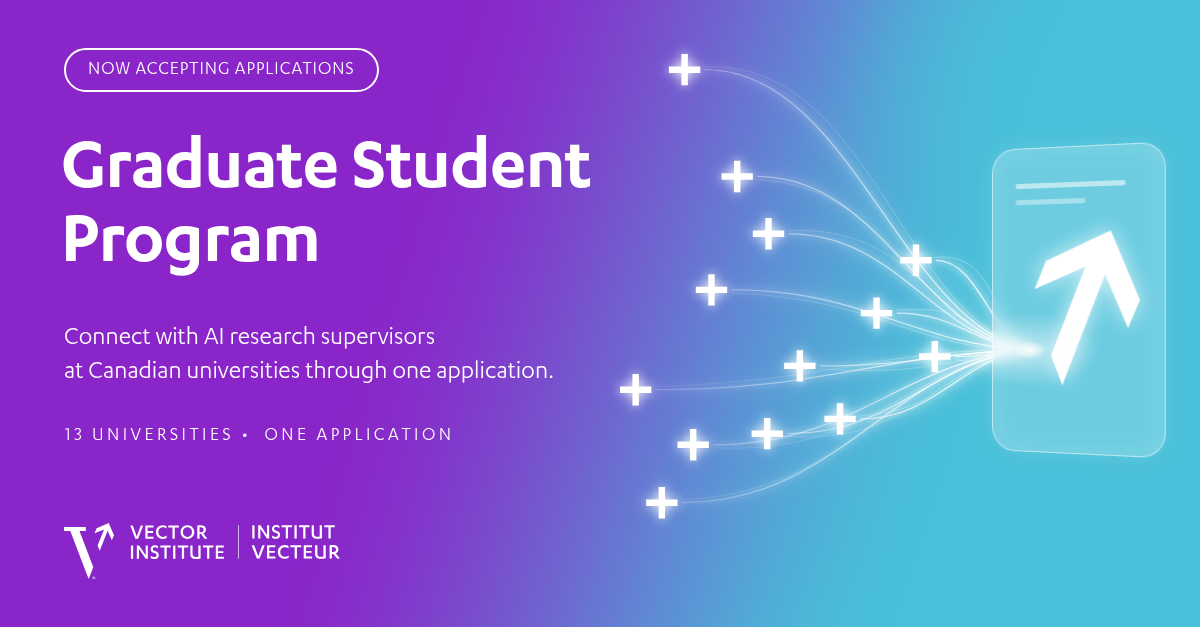
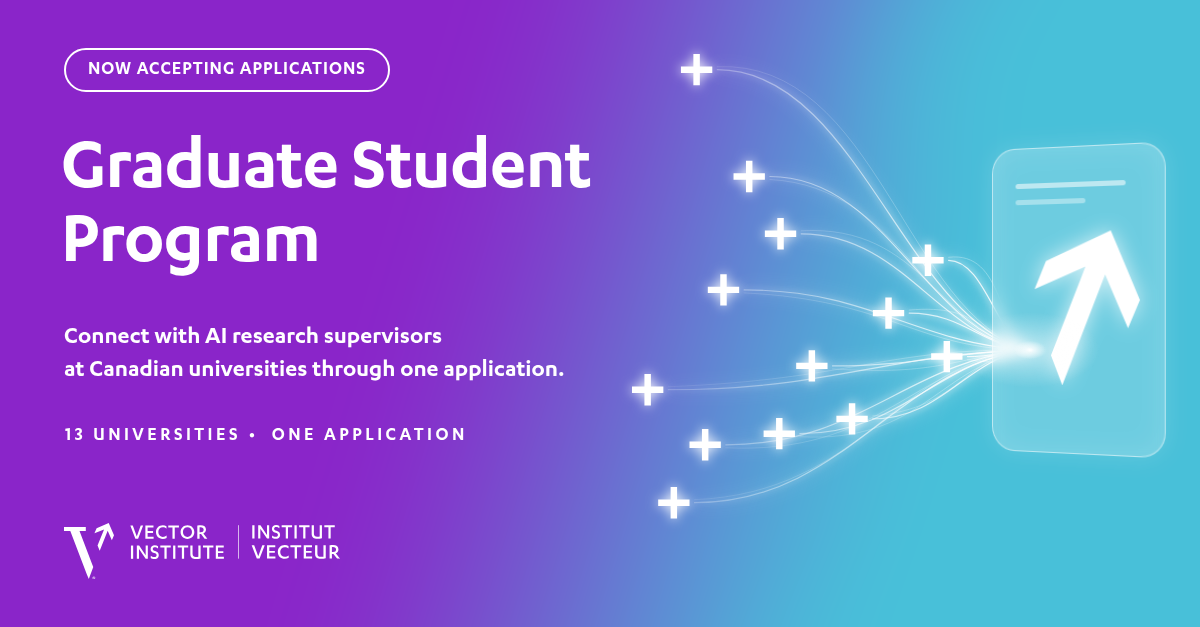
Graduate Student Program graphic: semibold supporting text
Pill, byline and tagline now use Karbon Semibold. Byline 26->25px and
plus pattern nudged 12px right to keep ~67px clearance.

Claude-Session: https://claude.ai/code/session_012MwK1vmEpNzT6vtmv9guo8

diff --git a/graduate-student-program/graphic.html b/graduate-student-program/graphic.html
@@ -7,10 +7,10 @@ html,body{width:1200px;height:627px;overflow:hidden;background:#8A25C9}
 #c{position:relative;width:1200px;height:627px;font-family:Karbon,sans-serif;color:#fff;overflow:hidden}
 .bg,svg.fx{position:absolute;inset:0}
 .pill{position:absolute;left:64px;top:48px;height:44px;padding:0 22px;border:2px solid #fff;border-radius:22px;
-  display:flex;align-items:center;font-size:19px;letter-spacing:.05em;font-weight:400}
+  display:flex;align-items:center;font-size:19px;letter-spacing:.05em;font-weight:600}
 h1{position:absolute;left:61px;top:136px;font-weight:600;font-size:76px;line-height:.98;letter-spacing:-.012em}
-.by{position:absolute;left:64px;top:323px;font-size:26px;line-height:1.3;font-weight:400;white-space:nowrap}
-.tr{position:absolute;left:65px;top:425px;font-size:19px;letter-spacing:.18em;font-weight:400}
+.by{position:absolute;left:64px;top:323px;font-size:25px;line-height:1.3;font-weight:600;white-space:nowrap}
+.tr{position:absolute;left:65px;top:425px;font-size:19px;letter-spacing:.18em;font-weight:600}
 .tr i{font-style:normal;margin:0 .7em 0 .4em}
 .logo{position:absolute;left:64px;top:523px;height:56px}
 .stage{position:absolute;left:992px;top:150px;width:176px;height:300px;perspective:900px}
@@ -34,12 +34,12 @@ h1{position:absolute;left:61px;top:136px;font-weight:600;font-size:76px;line-hei
    <stop offset="1" stop-color="#fff" stop-opacity="0"/></radialGradient>
  </defs>
  <g fill="none" stroke="url(#t)" stroke-linecap="round">
-  <g stroke-width="7" opacity=".35" filter="url(#glow2)"><path d="M682.5 502.7C838.9 502.7 891.0 365.3 1030 350"/><path d="M713.8 444.8C856.1 444.8 903.5 359.5 1030 350"/><path d="M656.3 389.7C824.5 389.7 880.5 354.0 1030 350"/><path d="M787.9 433.7C896.9 433.7 933.2 358.4 1030 350"/><path d="M860.7 418.9C936.9 418.9 962.3 356.9 1030 350"/><path d="M820.5 365.9C914.8 365.9 946.2 351.6 1030 350"/><path d="M897.2 313.1C957.0 313.1 976.9 346.3 1030 350"/><path d="M955.5 356.6C989.0 356.6 1000.2 350.7 1030 350"/><path d="M936.6 260.3C978.6 260.3 992.7 341.0 1030 350"/><path d="M732.1 289.9C866.2 289.9 910.9 344.0 1030 350"/><path d="M789.2 233.8C897.6 233.8 933.7 338.4 1030 350"/><path d="M757.9 176.5C880.3 176.5 921.1 332.7 1030 350"/><path d="M705.3 69.7C851.4 69.7 900.1 322.0 1030 350"/></g>
-  <g stroke-width="3" opacity=".6" filter="url(#glow)"><path d="M682.5 502.7C838.9 502.7 891.0 365.3 1030 350"/><path d="M713.8 444.8C856.1 444.8 903.5 359.5 1030 350"/><path d="M656.3 389.7C824.5 389.7 880.5 354.0 1030 350"/><path d="M787.9 433.7C896.9 433.7 933.2 358.4 1030 350"/><path d="M860.7 418.9C936.9 418.9 962.3 356.9 1030 350"/><path d="M820.5 365.9C914.8 365.9 946.2 351.6 1030 350"/><path d="M897.2 313.1C957.0 313.1 976.9 346.3 1030 350"/><path d="M955.5 356.6C989.0 356.6 1000.2 350.7 1030 350"/><path d="M936.6 260.3C978.6 260.3 992.7 341.0 1030 350"/><path d="M732.1 289.9C866.2 289.9 910.9 344.0 1030 350"/><path d="M789.2 233.8C897.6 233.8 933.7 338.4 1030 350"/><path d="M757.9 176.5C880.3 176.5 921.1 332.7 1030 350"/><path d="M705.3 69.7C851.4 69.7 900.1 322.0 1030 350"/></g>
-  <g stroke-width="1.2" opacity=".95"><path d="M682.5 502.7C838.9 502.7 891.0 365.3 1030 350"/><path d="M713.8 444.8C856.1 444.8 903.5 359.5 1030 350"/><path d="M656.3 389.7C824.5 389.7 880.5 354.0 1030 350"/><path d="M787.9 433.7C896.9 433.7 933.2 358.4 1030 350"/><path d="M860.7 418.9C936.9 418.9 962.3 356.9 1030 350"/><path d="M820.5 365.9C914.8 365.9 946.2 351.6 1030 350"/><path d="M897.2 313.1C957.0 313.1 976.9 346.3 1030 350"/><path d="M955.5 356.6C989.0 356.6 1000.2 350.7 1030 350"/><path d="M936.6 260.3C978.6 260.3 992.7 341.0 1030 350"/><path d="M732.1 289.9C866.2 289.9 910.9 344.0 1030 350"/><path d="M789.2 233.8C897.6 233.8 933.7 338.4 1030 350"/><path d="M757.9 176.5C880.3 176.5 921.1 332.7 1030 350"/><path d="M705.3 69.7C851.4 69.7 900.1 322.0 1030 350"/></g>
-  <g stroke-width=".7" opacity=".5"><path d="M682.5 499.7C858.9 492.7 891.0 359.3 1030 350"/><path d="M713.8 447.8C876.1 454.8 903.5 365.5 1030 350"/><path d="M656.3 386.7C844.5 379.7 880.5 348.0 1030 350"/><path d="M787.9 436.7C916.9 443.7 933.2 364.4 1030 350"/><path d="M860.7 415.9C956.9 408.9 962.3 350.9 1030 350"/><path d="M820.5 368.9C934.8 375.9 946.2 357.6 1030 350"/><path d="M897.2 310.1C977.0 303.1 976.9 340.3 1030 350"/><path d="M955.5 359.6C1009.0 366.6 1000.2 356.7 1030 350"/><path d="M936.6 257.3C998.6 250.3 992.7 335.0 1030 350"/><path d="M732.1 292.9C886.2 299.9 910.9 350.0 1030 350"/><path d="M789.2 230.8C917.6 223.8 933.7 332.4 1030 350"/><path d="M757.9 179.5C900.3 186.5 921.1 338.7 1030 350"/><path d="M705.3 66.7C871.4 59.7 900.1 316.0 1030 350"/></g>
+  <g stroke-width="7" opacity=".35" filter="url(#glow2)"><path d="M694.5 502.7C845.5 502.7 895.8 365.3 1030 350"/><path d="M725.8 444.8C862.7 444.8 908.3 359.5 1030 350"/><path d="M668.3 389.7C831.1 389.7 885.3 354.0 1030 350"/><path d="M799.9 433.7C903.5 433.7 938.0 358.4 1030 350"/><path d="M872.7 418.9C943.5 418.9 967.1 356.9 1030 350"/><path d="M832.5 365.9C921.4 365.9 951.0 351.6 1030 350"/><path d="M909.2 313.1C963.6 313.1 981.7 346.3 1030 350"/><path d="M967.5 356.6C995.6 356.6 1005.0 350.7 1030 350"/><path d="M948.6 260.3C985.2 260.3 997.5 341.0 1030 350"/><path d="M744.1 289.9C872.8 289.9 915.7 344.0 1030 350"/><path d="M801.2 233.8C904.2 233.8 938.5 338.4 1030 350"/><path d="M769.9 176.5C886.9 176.5 925.9 332.7 1030 350"/><path d="M717.3 69.7C858.0 69.7 904.9 322.0 1030 350"/></g>
+  <g stroke-width="3" opacity=".6" filter="url(#glow)"><path d="M694.5 502.7C845.5 502.7 895.8 365.3 1030 350"/><path d="M725.8 444.8C862.7 444.8 908.3 359.5 1030 350"/><path d="M668.3 389.7C831.1 389.7 885.3 354.0 1030 350"/><path d="M799.9 433.7C903.5 433.7 938.0 358.4 1030 350"/><path d="M872.7 418.9C943.5 418.9 967.1 356.9 1030 350"/><path d="M832.5 365.9C921.4 365.9 951.0 351.6 1030 350"/><path d="M909.2 313.1C963.6 313.1 981.7 346.3 1030 350"/><path d="M967.5 356.6C995.6 356.6 1005.0 350.7 1030 350"/><path d="M948.6 260.3C985.2 260.3 997.5 341.0 1030 350"/><path d="M744.1 289.9C872.8 289.9 915.7 344.0 1030 350"/><path d="M801.2 233.8C904.2 233.8 938.5 338.4 1030 350"/><path d="M769.9 176.5C886.9 176.5 925.9 332.7 1030 350"/><path d="M717.3 69.7C858.0 69.7 904.9 322.0 1030 350"/></g>
+  <g stroke-width="1.2" opacity=".95"><path d="M694.5 502.7C845.5 502.7 895.8 365.3 1030 350"/><path d="M725.8 444.8C862.7 444.8 908.3 359.5 1030 350"/><path d="M668.3 389.7C831.1 389.7 885.3 354.0 1030 350"/><path d="M799.9 433.7C903.5 433.7 938.0 358.4 1030 350"/><path d="M872.7 418.9C943.5 418.9 967.1 356.9 1030 350"/><path d="M832.5 365.9C921.4 365.9 951.0 351.6 1030 350"/><path d="M909.2 313.1C963.6 313.1 981.7 346.3 1030 350"/><path d="M967.5 356.6C995.6 356.6 1005.0 350.7 1030 350"/><path d="M948.6 260.3C985.2 260.3 997.5 341.0 1030 350"/><path d="M744.1 289.9C872.8 289.9 915.7 344.0 1030 350"/><path d="M801.2 233.8C904.2 233.8 938.5 338.4 1030 350"/><path d="M769.9 176.5C886.9 176.5 925.9 332.7 1030 350"/><path d="M717.3 69.7C858.0 69.7 904.9 322.0 1030 350"/></g>
+  <g stroke-width=".7" opacity=".5"><path d="M694.5 499.7C865.5 492.7 895.8 359.3 1030 350"/><path d="M725.8 447.8C882.7 454.8 908.3 365.5 1030 350"/><path d="M668.3 386.7C851.1 379.7 885.3 348.0 1030 350"/><path d="M799.9 436.7C923.5 443.7 938.0 364.4 1030 350"/><path d="M872.7 415.9C963.5 408.9 967.1 350.9 1030 350"/><path d="M832.5 368.9C941.4 375.9 951.0 357.6 1030 350"/><path d="M909.2 310.1C983.6 303.1 981.7 340.3 1030 350"/><path d="M967.5 359.6C1015.6 366.6 1005.0 356.7 1030 350"/><path d="M948.6 257.3C1005.2 250.3 997.5 335.0 1030 350"/><path d="M744.1 292.9C892.8 299.9 915.7 350.0 1030 350"/><path d="M801.2 230.8C924.2 223.8 938.5 332.4 1030 350"/><path d="M769.9 179.5C906.9 186.5 925.9 338.7 1030 350"/><path d="M717.3 66.7C878.0 59.7 904.9 316.0 1030 350"/></g>
  </g>
- <g fill="#fff" filter="url(#pg)"><path d="M646.19 499.51H658.63V487.07H665.07V499.51H677.51V505.96H665.07V518.40H658.63V505.96H646.19Z"/><path d="M677.51 441.54H689.95V429.10H696.40V441.54H708.84V447.98H696.40V460.42H689.95V447.98H677.51Z"/><path d="M620.00 386.52H632.44V374.08H638.89V386.52H651.33V392.96H638.89V405.40H632.44V392.96H620.00Z"/><path d="M751.62 430.47H764.06V418.03H770.50V430.47H782.94V436.92H770.50V449.36H764.06V436.92H751.62Z"/><path d="M824.40 415.66H836.84V403.22H843.29V415.66H855.73V422.11H843.29V434.55H836.84V422.11H824.40Z"/><path d="M784.19 362.67H796.63V350.23H803.08V362.67H815.52V369.12H803.08V381.56H796.63V369.12H784.19Z"/><path d="M860.88 309.89H873.32V297.45H879.76V309.89H892.20V316.33H879.76V328.77H873.32V316.33H860.88Z"/><path d="M919.16 353.37H931.60V340.93H938.05V353.37H950.49V359.82H938.05V372.26H931.60V359.82H919.16Z"/><path d="M900.31 257.05H912.75V244.61H919.19V257.05H931.63V263.50H919.19V275.94H912.75V263.50H900.31Z"/><path d="M695.82 286.66H708.26V274.22H714.71V286.66H727.15V293.11H714.71V305.55H708.26V293.11H695.82Z"/><path d="M752.87 230.56H765.31V218.12H771.76V230.56H784.20V237.00H771.76V249.44H765.31V237.00H752.87Z"/><path d="M721.54 173.28H733.98V160.84H740.43V173.28H752.87V179.72H740.43V192.16H733.98V179.72H721.54Z"/><path d="M668.94 66.44H681.38V54.00H687.83V66.44H700.27V72.89H687.83V85.33H681.38V72.89H668.94Z"/></g>
+ <g fill="#fff" filter="url(#pg)"><path d="M658.19 499.51H670.63V487.07H677.07V499.51H689.51V505.96H677.07V518.40H670.63V505.96H658.19Z"/><path d="M689.51 441.54H701.95V429.10H708.40V441.54H720.84V447.98H708.40V460.42H701.95V447.98H689.51Z"/><path d="M632.00 386.52H644.44V374.08H650.89V386.52H663.33V392.96H650.89V405.40H644.44V392.96H632.00Z"/><path d="M763.62 430.47H776.06V418.03H782.50V430.47H794.94V436.92H782.50V449.36H776.06V436.92H763.62Z"/><path d="M836.40 415.66H848.84V403.22H855.29V415.66H867.73V422.11H855.29V434.55H848.84V422.11H836.40Z"/><path d="M796.19 362.67H808.63V350.23H815.08V362.67H827.52V369.12H815.08V381.56H808.63V369.12H796.19Z"/><path d="M872.88 309.89H885.32V297.45H891.76V309.89H904.20V316.33H891.76V328.77H885.32V316.33H872.88Z"/><path d="M931.16 353.37H943.60V340.93H950.05V353.37H962.49V359.82H950.05V372.26H943.60V359.82H931.16Z"/><path d="M912.31 257.05H924.75V244.61H931.19V257.05H943.63V263.50H931.19V275.94H924.75V263.50H912.31Z"/><path d="M707.82 286.66H720.26V274.22H726.71V286.66H739.15V293.11H726.71V305.55H720.26V293.11H707.82Z"/><path d="M764.87 230.56H777.31V218.12H783.76V230.56H796.20V237.00H783.76V249.44H777.31V237.00H764.87Z"/><path d="M733.54 173.28H745.98V160.84H752.43V173.28H764.87V179.72H752.43V192.16H745.98V179.72H733.54Z"/><path d="M680.94 66.44H693.38V54.00H699.83V66.44H712.27V72.89H699.83V85.33H693.38V72.89H680.94Z"/></g>
 </svg>
 <div class="stage"><div class="card">
  <div class="ln" style="top:34px;width:112px"></div><div class="ln" style="top:50px;width:72px;opacity:.7"></div>

diff --git a/graduate-student-program/build.py b/graduate-student-program/build.py
@@ -19,9 +19,9 @@ def rot(x, y):
     return (x, y)
 PS = 0.43                     # pattern scale
 # text layout (px): top positions, font sizes, heights
-L = dict(pill_top=48, pill_h=44, pill_fs=19, h1_top=136, h1_fs=76, by_top=323, by_fs=26,
+L = dict(pill_top=48, pill_h=44, pill_fs=19, h1_top=136, h1_fs=76, by_top=323, by_fs=25,
          tr_top=425, tr_fs=19, logo_top=523, logo_h=56)
-PX, PY = 620, 54              # pattern origin
+PX, PY = 632, 54              # pattern origin
 ARM = 72.85 * PS              # plus width in px
 BAR = 14.99 * PS              # stroke thickness in px
 pts = [(PX + rot(x, y)[0]*PS, PY + rot(x, y)[1]*PS) for x, y in centers]
@@ -71,10 +71,10 @@ html,body{{width:{W}px;height:{H}px;overflow:hidden;background:#8A25C9}}
 #c{{position:relative;width:{W}px;height:{H}px;font-family:Karbon,sans-serif;color:#fff;overflow:hidden}}
 .bg,svg.fx{{position:absolute;inset:0}}
 .pill{{position:absolute;left:64px;top:{L['pill_top']}px;height:{L['pill_h']}px;padding:0 22px;border:2px solid #fff;border-radius:{L['pill_h']//2}px;
-  display:flex;align-items:center;font-size:{L['pill_fs']}px;letter-spacing:.05em;font-weight:400}}
+  display:flex;align-items:center;font-size:{L['pill_fs']}px;letter-spacing:.05em;font-weight:600}}
 h1{{position:absolute;left:61px;top:{L['h1_top']}px;font-weight:600;font-size:{L['h1_fs']}px;line-height:.98;letter-spacing:-.012em}}
-.by{{position:absolute;left:64px;top:{L['by_top']}px;font-size:{L['by_fs']}px;line-height:1.3;font-weight:400;white-space:nowrap}}
-.tr{{position:absolute;left:65px;top:{L['tr_top']}px;font-size:{L['tr_fs']}px;letter-spacing:.18em;font-weight:400}}
+.by{{position:absolute;left:64px;top:{L['by_top']}px;font-size:{L['by_fs']}px;line-height:1.3;font-weight:600;white-space:nowrap}}
+.tr{{position:absolute;left:65px;top:{L['tr_top']}px;font-size:{L['tr_fs']}px;letter-spacing:.18em;font-weight:600}}
 .tr i{{font-style:normal;margin:0 .7em 0 .4em}}
 .logo{{position:absolute;left:64px;top:{L['logo_top']}px;height:{L['logo_h']}px}}
 .stage{{position:absolute;left:992px;top:150px;width:176px;height:300px;perspective:900px}}
